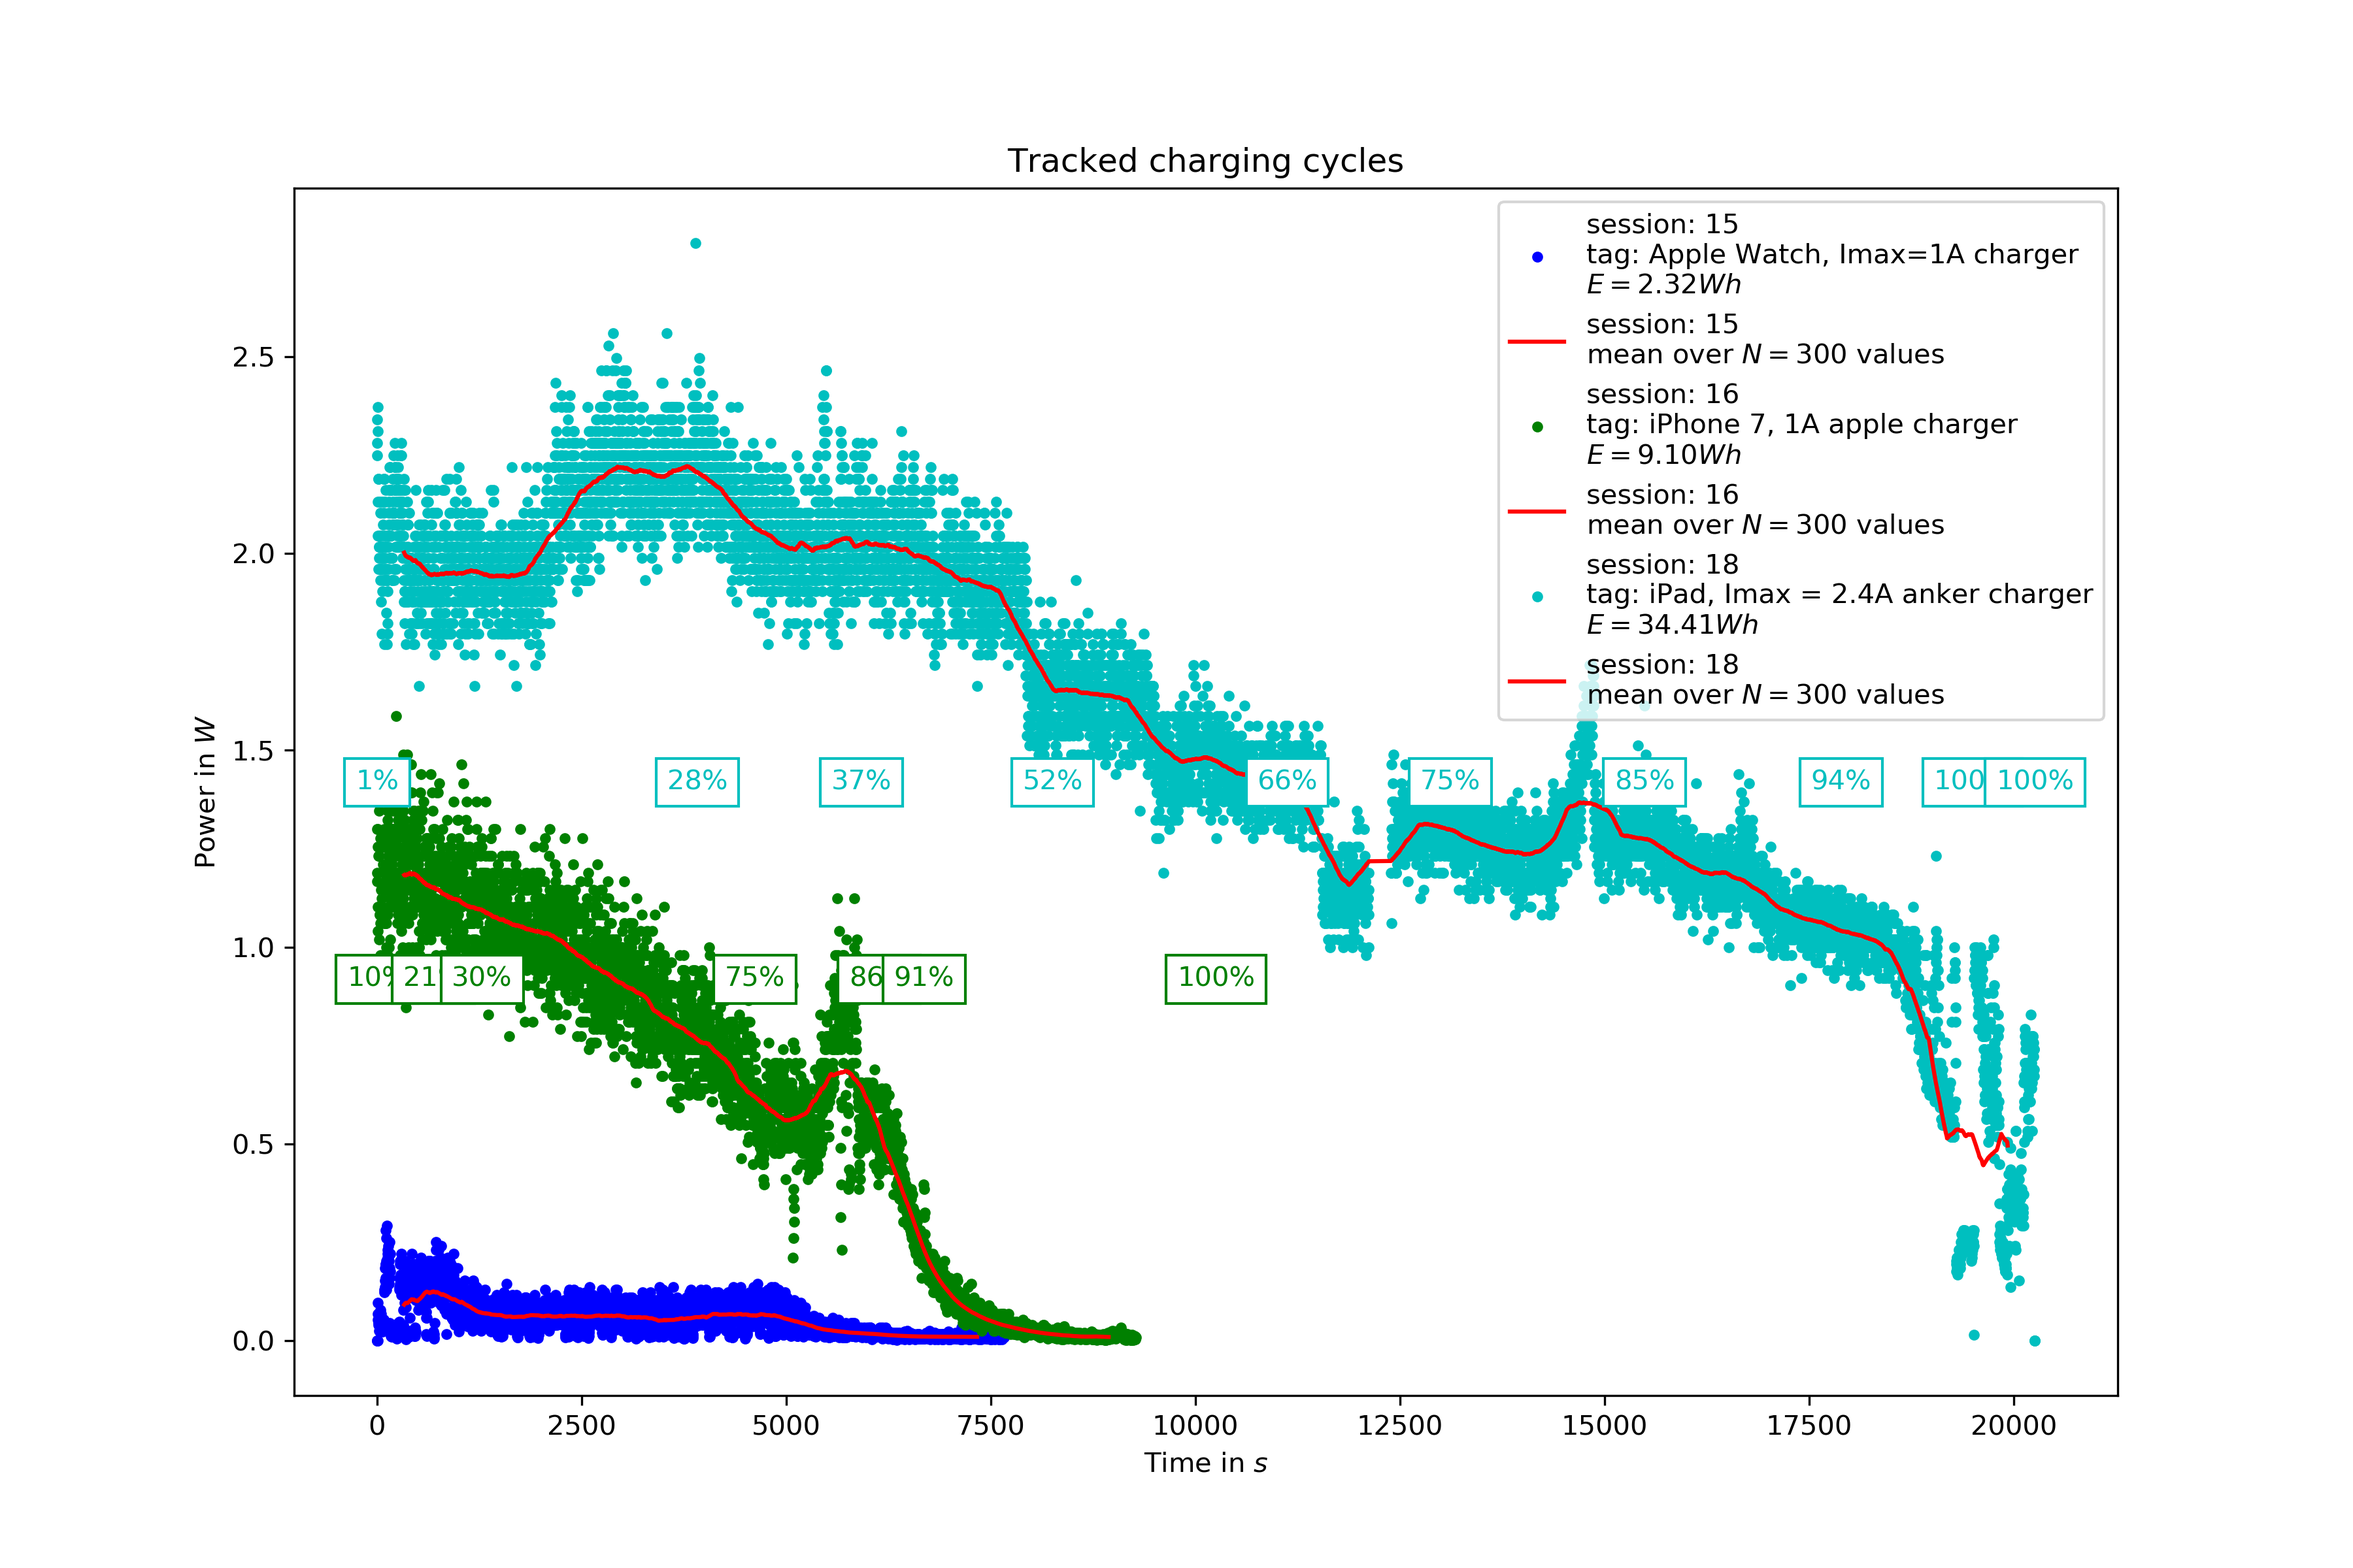
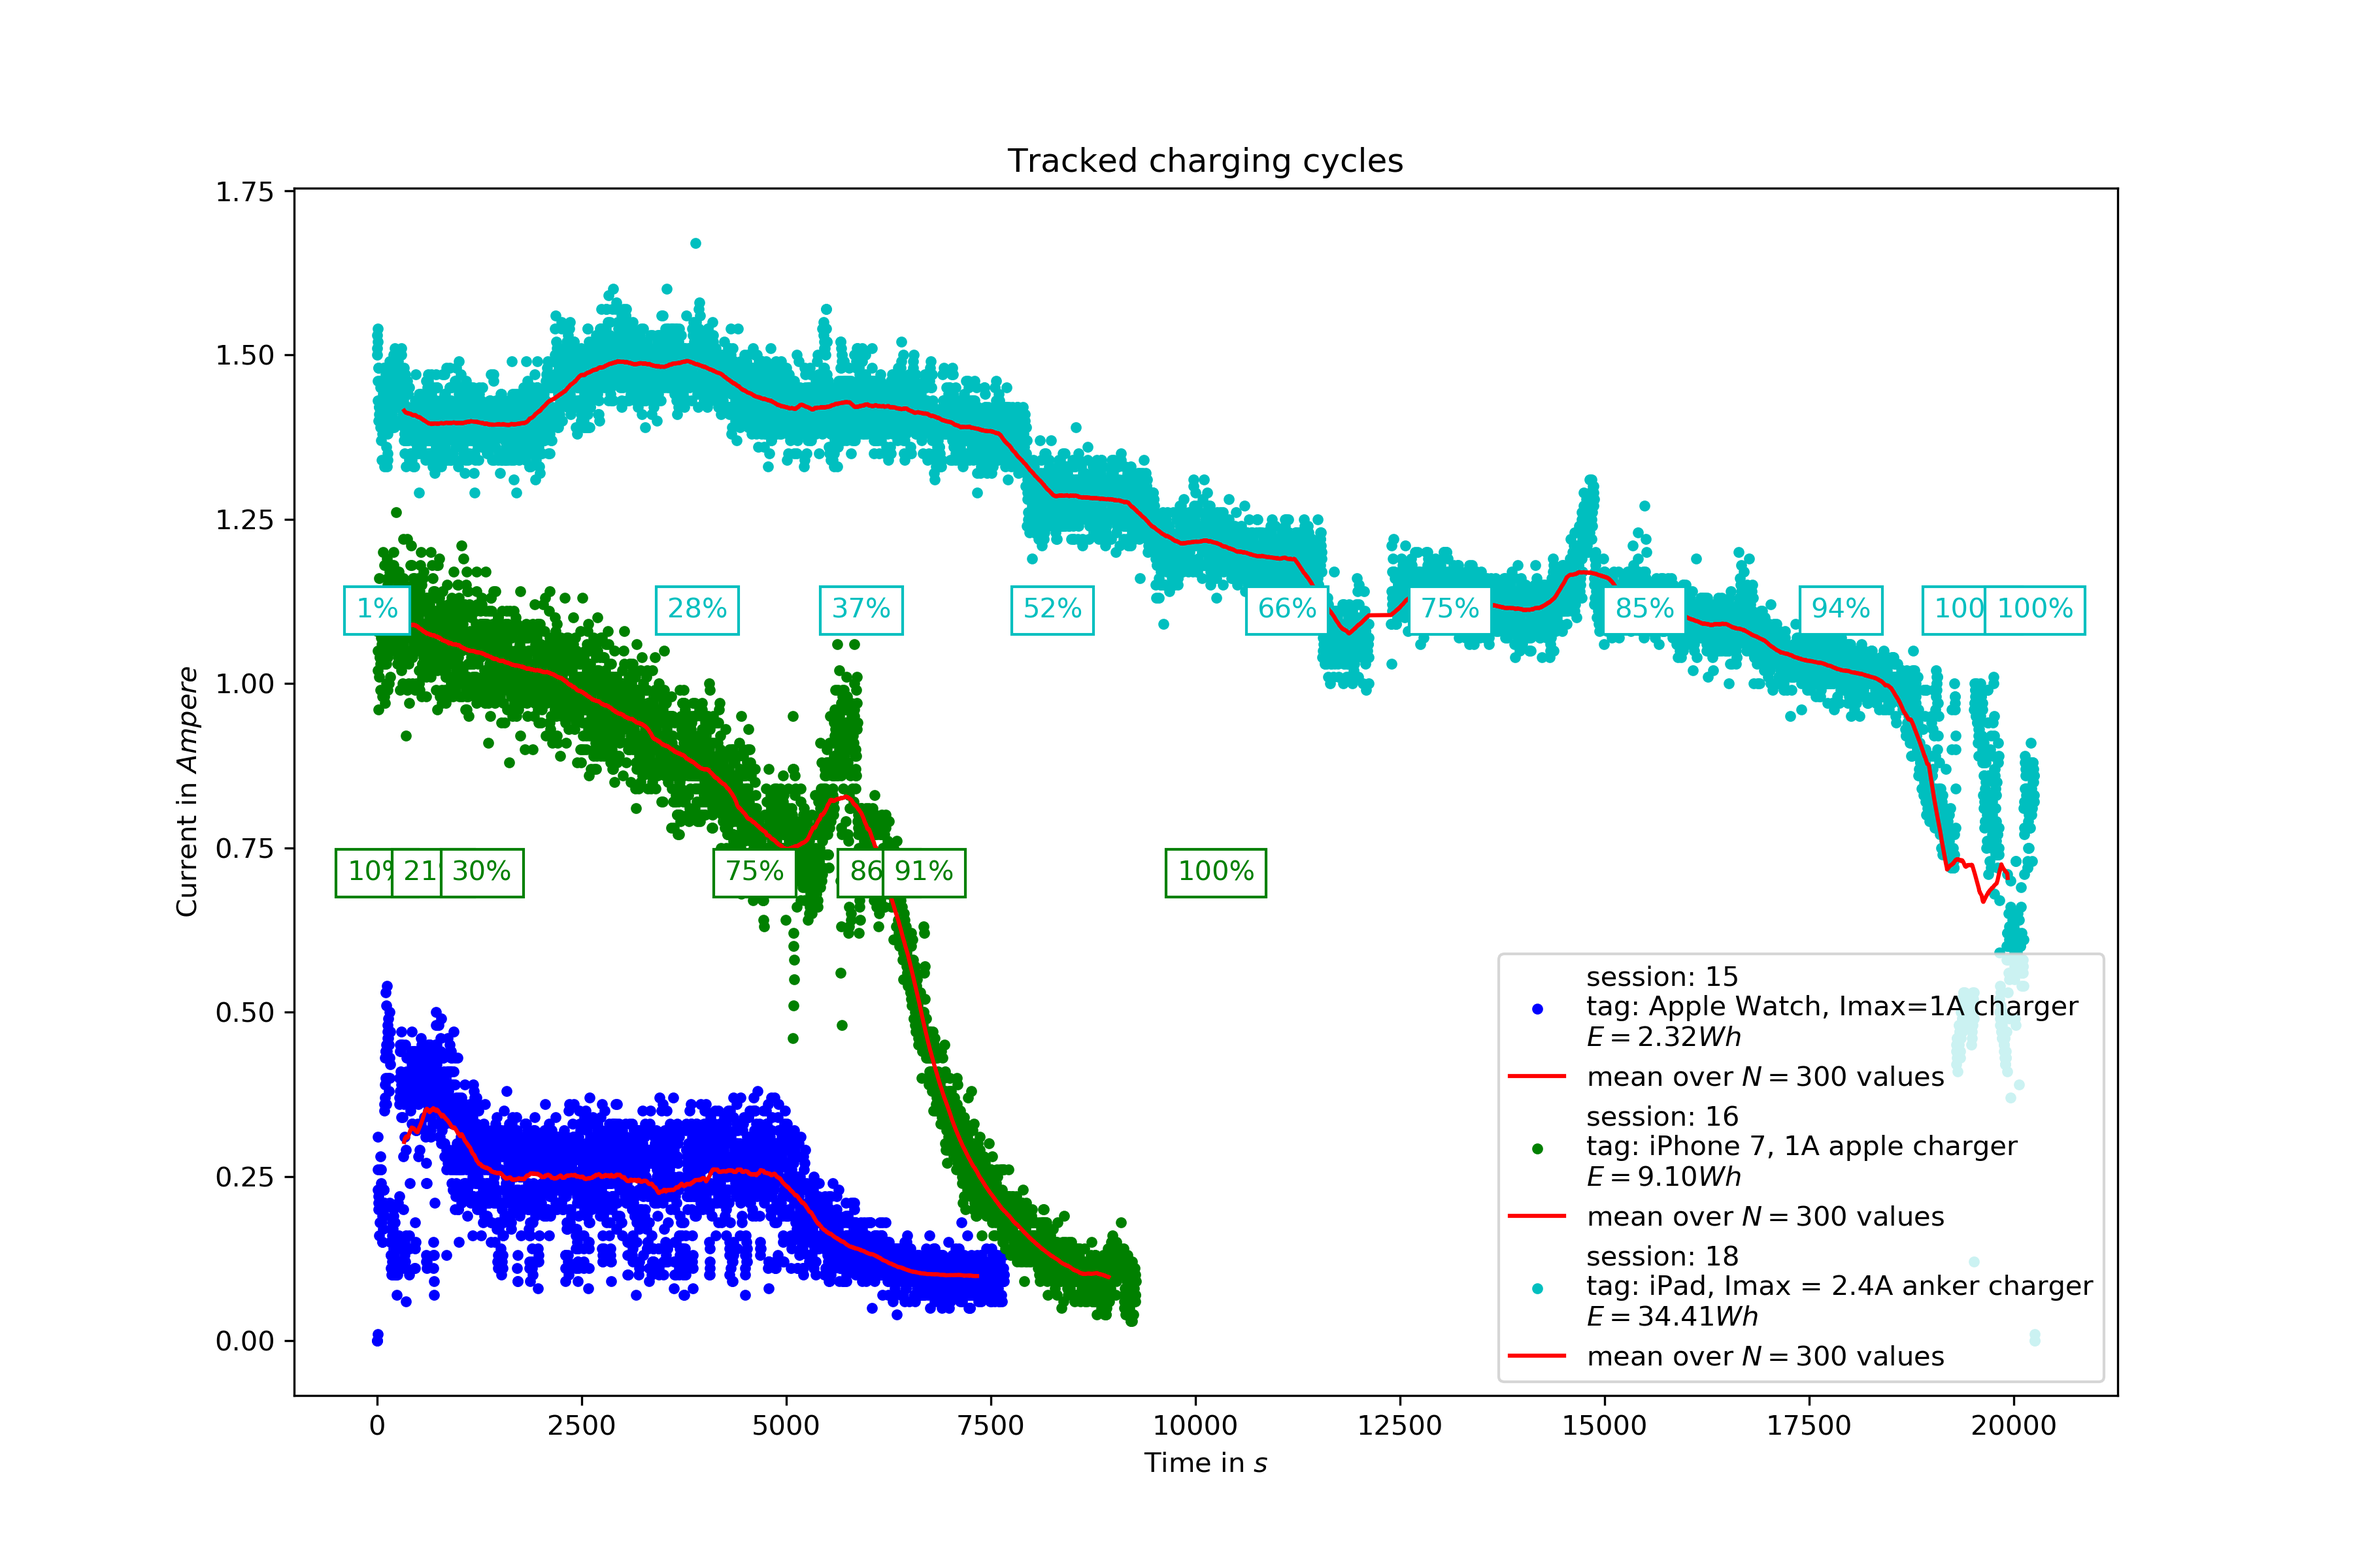
minor changes

diff --git a/Presentation.py b/Presentation.py
@@ -2,17 +2,17 @@ from utils.plotting import *
 from matplotlib import pyplot as plt
 from classes.CTDatabase import *
 
-#TODO:
-'''
-function that presents graph of one whole cycle specified by number
-function that shows the different cycles to choose from
-function that shows ongoing cycle
-calculate total power and show in graph
-
-'''
-
 
 def plot_sessions(sessions, DB:CTDatabase, title='Tracked charging cycles', draw_battery=True):
+    """
+    Saves a plot of all sessions that are passed in the sessions array.
+
+    :param sessions: integer array of session ids
+    :param DB: database that contains the data
+    :param title: title of the plot
+    :param draw_battery: True of percentage tags should be plotted, False if not
+    :return:
+    """
 
     plt.figure(figsize=(12,8))
 
@@ -22,6 +22,8 @@ def plot_sessions(sessions, DB:CTDatabase, title='Tracked charging cycles', draw
 
     for i, session in enumerate(sessions):
         filename += '-' + str(session)
+        
+        #  get data from database
         data = DB.get_session_data(session)
         energy = DB.get_session_energy(session)
         tag = DB.get_session_tag(session)
@@ -30,20 +32,19 @@ def plot_sessions(sessions, DB:CTDatabase, title='Tracked charging cycles', draw
         mean_count = 300
         mean_data = create_mean_data(mean_count, data)
 
-        plt.plot(np.array(np.array(data[1])), np.array(data[2]) * np.array(data[2]), linestyle='', marker='.',
+        plt.plot(np.array(np.array(data[1])), np.array(data[2]), linestyle='', marker='.',
                  color=col[2*i], label='\n'.join([r"session: " + str(session),
                                                 r"tag: {}".format(tag),
                                                 r"$E = {:.2f} Wh$".format(energy)]))
-        plt.plot(np.array(np.array(mean_data[1])), np.array(mean_data[2]) * np.array(mean_data[2]), linestyle='-',
-                 marker=None, color=col[2*i+1], label='\n'.join([r"session: " + str(session),
-                                                              r"mean over $N={:}$ values".format(mean_count)]))
+        plt.plot(np.array(np.array(mean_data[1])), np.array(mean_data[2]), linestyle='-',
+                 marker=None, color=col[2*i+1], label='\n'.join([r"mean over $N={:}$ values".format(mean_count)]))
 
         if draw_battery and battery_data is not None:
             for j in range(len(battery_data[0])):
                 plt.axvline(x=battery_data[1][j], color=col[2*i], ymax=1.5,
                              ymin=1.5)
                 plt.annotate("{}%".format(battery_data[3][j]),
-                             (battery_data[1][j], 0.8 + 0.9*i),
+                             (battery_data[1][j], 0.3 + 0.4*i),
                              textcoords="offset points",  # how to position the text
                              xytext=(0, 0),  # distance from text to points (x,y)
                              ha='center',
@@ -55,12 +56,22 @@ def plot_sessions(sessions, DB:CTDatabase, title='Tracked charging cycles', draw
     plt.legend(loc='best')
     plt.title(title)
     plt.xlabel(r'Time in $ s $')
-    plt.ylabel(r'Power in $ W $')
+    # plt.ylabel(r'Power in $ W $')
+    plt.ylabel(r'Current in $ Ampere $')
 
     plt.savefig('graphics/' + filename + '.png', dpi=300)
 
 
 def create_mean_data(mean_count, data):
+    """
+    Creates a running mean of the data delivered taking into account the previous and following
+    mean_count/2 values for every point in the data array.
+
+    :param mean_count: integer
+    :param data: data from database
+    :return: mean data from data
+    """
+
     start_index = int(mean_count / 2)
     end_index = len(data[0]) - start_index
 
@@ -81,6 +92,12 @@ def create_mean_data(mean_count, data):
 
 
 def live_plot(DB:CTDatabase):
+    """
+    Creates a live plot by always updating it with new data.
+
+    :param DB: database which is continuously updated.
+    :return:
+    """
     session = DB.get_latest_session()
 
     while 1:
@@ -94,14 +111,13 @@ def live_plot(DB:CTDatabase):
 
 
 if __name__ == '__main__':
+
     DB = CTDatabase()
-
-    #session = 4
-    #data = DB.get_session_data(session)
-    #plot2D_x_y(data[1], data[2], 'session '+str(session), xlabel='seconds', ylabel='current in A', title='Charging cycle session '+str(session))
-
-    sessions = [16, 18]
+    # specify which sessions should be included
+    sessions = [15, 16, 18]
     plot_sessions(sessions, DB)
+
+
 
 
 

diff --git a/classes/CTDatabase.py b/classes/CTDatabase.py
@@ -19,9 +19,11 @@ class CTDatabase:
         :param db: database
         """
         self.db = MySQLdb._mysql.connect(host=host,
-                                    user=user,
-                                    passwd=passwd,
-                                    db=db)
+                                         user=user,
+                                         passwd=passwd,
+                                         db=db)
+
+        #varibles for live plotting
         self.buffer = []
         self.ts_reference = 0.0
 
@@ -50,7 +52,7 @@ class CTDatabase:
 
     def get_session_tag(self, session):
         """
-        reads tag for session, stored in separate database table 'metatags'.
+        Reads tag for session, stored in separate database table 'metatags'.
 
         :param session: str
         :return: str of session tag
@@ -63,7 +65,7 @@ class CTDatabase:
 
     def get_session_battery_data(self, session):
         """
-        reads battery data for session, stored in separate database table 'devicebattery'
+        Reads battery data for session, stored in separate database table 'devicebattery'.
 
         :param session: int
         :return: array containing the battery data, format of one entry: (ts, pyts, session, batteryvalue)
@@ -87,7 +89,7 @@ class CTDatabase:
 
     def get_latest_session(self):
         """
-        get the session value of the most recent data in the database.
+        Get the session value of the most recent data in the database.
         :return: int
         """
         self.db.query("SELECT ses from data "
@@ -100,7 +102,7 @@ class CTDatabase:
 
     def set_session_tag(self, session, tag):
         """
-        works with table 'metatags' and adds a value which assigns a str tag to a session number.
+        Works with table 'metatags' and adds a value which assigns a str tag to a session number.
         :param session: int
         :param tag: str
         """

diff --git a/classes/ArduinoCommunicator.py b/classes/ArduinoCommunicator.py
@@ -52,7 +52,7 @@ class ArduinoCommunicator:
         self.ser.close()
         self.conn_closed = True
 
-    def _request(self, message, bytecount=None, sleep=1):
+    def _request(self, message:str, bytecount=None, sleep=1):
         """
         Sends a string to arduino and returns the message received.
         It waits for a specified amount of bytes.
@@ -60,6 +60,7 @@ class ArduinoCommunicator:
         :comments:
         The function 'serial.in_waiting' is compatible with pyserial version 3 and above.
         Use 'serial.inWaiting()' instead for a pyserial version below 3.
+
         :param message: str command to arduino
         :param bytecount: expected bytecount of response
         :param sleep: amount of seconds to wait for response, if no bytecount is specified
@@ -80,7 +81,7 @@ class ArduinoCommunicator:
 
         return response
 
-    def _get_first_value(self, response):
+    def _get_first_value(self, response:str):
         """
         gets the first numerical value after a ':' in a String.
 

diff --git a/RecordChargingSession.py b/RecordChargingSession.py
@@ -13,9 +13,7 @@ if __name__ == '__main__':
 
 
     session = DB.get_latest_session() + 1
-
     print('STATUS : Running session ' + str(session))
-
     tag = input('Please type tag of session:\n')
     print(tag)
     DB.set_session_tag(session, tag)
@@ -27,11 +25,10 @@ if __name__ == '__main__':
             measure = Arduino.Request_V1_AD(10)
             voltage = measure[0]
             current = measure[1]
-            #current = random.randint(1,10) * -0.1
-            #voltage = random.randint(1,10) * -0.1
             time.sleep(0.1)
             pyts = time.time() - reference_time
-            print("ts= {:2f} V1={:2f} A={:2f} Session={:} ".format(pyts, voltage, current, session))
+            print("ts= {:2f} V1={:2f} A={:2f} "
+                  "Session={:} ".format(pyts, voltage, current, session))
 
             DB.add_data(pyts, current, voltage, session)
 

diff --git a/RecordPercentage.py b/RecordPercentage.py
@@ -1,7 +1,7 @@
 from classes.CTDatabase import *
-import sys
 
 if __name__ == "__main__":
+
     DB = CTDatabase()
 
     session = DB.get_latest_session()
@@ -11,12 +11,18 @@ if __name__ == "__main__":
     while 1:
         try:
             battery = int(input("Please input percentage: "))
+
             pyts = time.time() - reference_time
             DB.add_percentage_keypoint(pyts, session, battery)
-            print("pyts={:2f} battery={}% data written to db".format(pyts, battery))
+            print("pyts={:2f} battery={}% data "
+                  "written to db".format(pyts, battery))
 
         except KeyboardInterrupt:
             print('\nSTATUS : Exit session...')
             break
+
+        except ValueError:
+            print('ERROR : Please only use integers.')
+            continue
 
 
